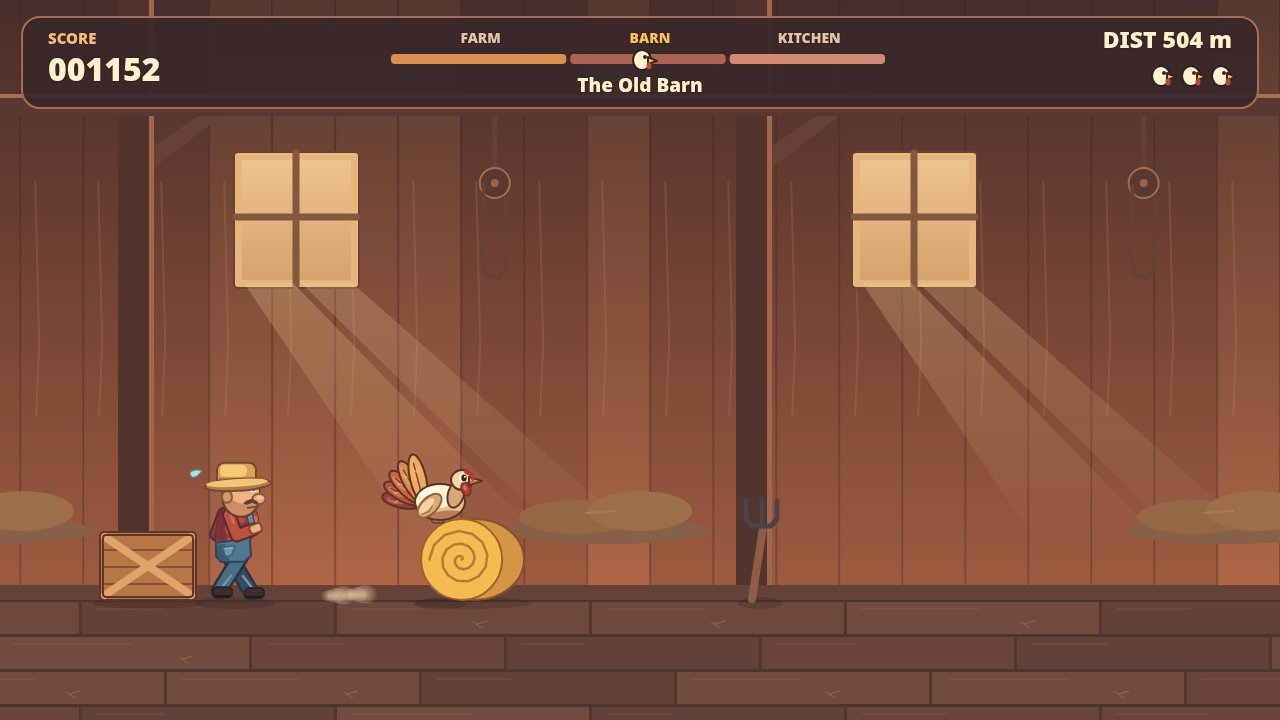
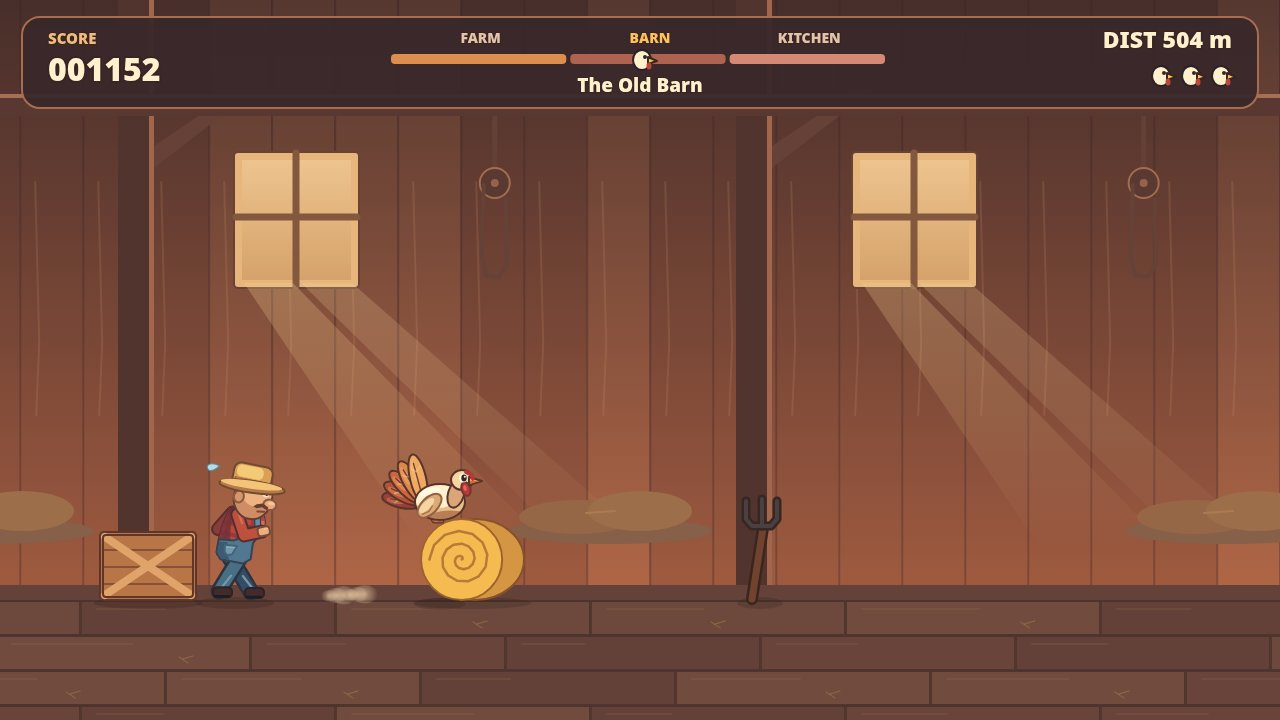
Round-2 ChatGPT-review fixes: cover restaged as the desperate moment (turkey mid-jump over the oven, farmer lunging 126px behind, turkey alarmed face during lunges), sprintier farmer run pose (more lean, wider arm swing), pitchfork darkened with thick outline

Changed region(s): [[0.1562, 0.6417, 0.2188, 0.7639], [0.5625, 0.7639, 0.5938, 0.8556], [0.5938, 0.7028, 0.625, 0.7639]]

diff --git a/game/src/render.js b/game/src/render.js
@@ -338,7 +338,7 @@ export class Renderer {
     }
     this.drawEffects(state.cameraX);
     if (dashing) this.speedLines(state.turkey, state.cameraX);
-    this.drawTurkey(state.turkey, state.turkey.x - state.cameraX);
+    this.drawTurkey(state.turkey, state.turkey.x - state.cameraX, state.farmer.state === 'lunge');
     this.drawFarmer(state.farmer, state.farmer.x - state.cameraX);
     if (!state.frozen || state.currentStage.id === 'farm') this.leaves(state.cameraX);
     this.endImpact(impact);
@@ -501,10 +501,16 @@ export class Renderer {
         break;
       case 'pitchfork': {
         const center = x + w / 2;
-        this.line([[center - 8, g - 1], [center + 3, y + 31]], '#905c45', 8);
-        this.line([[center - 14, y + 4], [center - 14, y + 22], [center - 8, y + 29],
-          [center + 11, y + 29], [center + 17, y + 22], [center + 17, y + 4]], '#4c4249', 5);
-        this.line([[center + 2, y + 2], [center + 2, y + 29]], '#4c4249', 5);
+        const handle = [[center - 8, g - 1], [center + 3, y + 31]];
+        const outerTines = [[center - 14, y + 4], [center - 14, y + 22], [center - 8, y + 29],
+          [center + 11, y + 29], [center + 17, y + 22], [center + 17, y + 4]];
+        const middleTine = [[center + 2, y + 2], [center + 2, y + 29]];
+        this.line(handle, '#3c251f', 12);
+        this.line(handle, '#70432f', 7);
+        this.line(outerTines, '#382622', 9);
+        this.line(middleTine, '#382622', 9);
+        this.line(outerTines, '#4b4041', 4);
+        this.line(middleTine, '#4b4041', 4);
         break;
       }
       case 'oven':
@@ -581,10 +587,25 @@ export class Renderer {
     this.line(spiral, '#b77a38', 2.5);
   }
 
-  drawTurkey(turkey, x) {
+  drawTurkey(turkey, x, alarmed) {
     const lift = turkey.y ?? 0;
     this.shadow(x, this.ground + 4, Math.max(9, 33 - lift * 0.11));
-    this.turkeyPose(x, this.ground - lift, { ...turkey, airborne: lift > 0 });
+    this.turkeyPose(x, this.ground - lift, { ...turkey, airborne: lift > 0, alarmed });
+  }
+
+  sweatDrop(x, y, scale = 1) {
+    const c = this.ctx;
+    c.save();
+    c.translate(x, y);
+    c.scale(scale, scale);
+    c.beginPath();
+    c.moveTo(0, 0);
+    c.quadraticCurveTo(-5, -2, -10, 0);
+    c.quadraticCurveTo(-14, 3, -10, 6);
+    c.quadraticCurveTo(-6, 8, 0, 0);
+    c.closePath();
+    this.paint('#b2dce7', '#608494', 1.1);
+    c.restore();
   }
 
   turkeyPose(x, y, turkey = {}, scale = 1, angle = 0) {
@@ -657,7 +678,12 @@ export class Renderer {
       '#c97139');
     this.line([[headX + 4, headY - 8], [headX + 10, headY - 5], [headX + 11, headY - 1]],
       '#b6383a', 3.8);
-    if (turkey.hidden && this.time % 2.8 > 2.60) {
+    if (turkey.alarmed) {
+      this.oval(headX + 1, headY - 2.5, 5.5, 6.2, '#fff8df', 0, ink);
+      this.oval(headX + 2.5, headY - 2.5, 2.5, 3.4, '#332229');
+      this.oval(headX + 3.1, headY - 3.9, 1, 1, '#fff8df');
+      this.sweatDrop(headX - 8, headY - 9, 0.65);
+    } else if (turkey.hidden && this.time % 2.8 > 2.60) {
       this.line([[headX - 1, headY - 2], [headX + 4, headY - 2]], ink);
     } else {
       this.oval(headX + 1, headY - 2, 4, 4.5, '#fff8df');
@@ -677,6 +703,7 @@ export class Renderer {
     const c = this.ctx;
     const phase = (farmer.runPhase ?? 0) * TAU;
     const running = !holding && farmer.state !== undefined;
+    const sprinting = !holding && farmer.state === 'chase';
     const searching = farmer.state === 'search';
     const lunging = farmer.state === 'lunge';
     const stride = running ? Math.sin(phase) * 25 : 0;
@@ -702,12 +729,17 @@ export class Renderer {
       c.translate(0, 44);
     } else if (running) {
       c.translate(0, -Math.abs(Math.cos(phase)) * 2);
+      if (sprinting) {
+        c.translate(0, -44);
+        c.rotate(0.2);
+        c.translate(0, 44);
+      }
     }
 
     const arm = (side) => {
       const near = side === 1;
       const shoulder = near ? [-6, -85] : [-11, -86];
-      const swing = -side * (9 + stride) / 34 * 0.78;
+      const swing = -side * (9 + stride) / 34 * (sprinting ? 1.11 : 0.78);
       const forearmAngle = -0.22 - swing * 0.36;
       let elbow = [shoulder[0] + Math.sin(swing) * 22, shoulder[1] + Math.cos(swing) * 22];
       let wrist = [elbow[0] + Math.cos(forearmAngle) * 18, elbow[1] + Math.sin(forearmAngle) * 18];
@@ -788,15 +820,7 @@ export class Renderer {
     this.rect(-15, -122, 14, 2, '#be784c');
     this.oval(3, -115, 33, 6, '#b77948', -0.06, '#704b34');
     this.oval(2, -117, 31, 4, '#f3c477', -0.06);
-    if (!holding && (farmer.state === 'chase' || lunging)) {
-      c.beginPath();
-      c.moveTo(-33, -129);
-      c.quadraticCurveTo(-38, -131, -43, -129);
-      c.quadraticCurveTo(-47, -126, -43, -123);
-      c.quadraticCurveTo(-39, -121, -33, -129);
-      c.closePath();
-      this.paint('#b2dce7', '#608494', 1.1);
-    }
+    if (!holding && (sprinting || lunging)) this.sweatDrop(-33, -129);
     c.restore();
   }
 

diff --git a/game/src/shots.js b/game/src/shots.js
@@ -24,11 +24,19 @@ export function stageShot(name, game) {
       game.turkey.vy = 180;
       game.shotDustX = game.turkey.x - 85;
       break;
-    case 'kitchen':
-      stageRun(game, 2, 3570, 1961, [
-        ['oven', 330], ['knife', 640],
-      ]);
+    case 'kitchen': {
+      const ovenOffset = 330;
+      stageRun(game, 2, 3570, 1961, [['oven', ovenOffset], ['knife', 640]], 334);
+      const oven = game.world.items.find((item) => item.staged && item.kind === 'oven');
+      game.turkey.x = oven.x + oven.w / 2;
+      game.turkey.y = oven.h + 28;
+      game.turkey.vy = 280;
+      game.farmer.x = game.turkey.x - 126;
+      game.farmer.state = 'lunge';
+      game.farmer.lungeRemaining = 0.22;
+      game.distance = Math.floor(game.turkey.x / CONFIG.game.PIXELS_PER_METRE);
       break;
+    }
     case 'caught':
       Object.assign(game, { state: 'caught', score: 1733, distance: 817 });
       break;
@@ -44,14 +52,14 @@ export function stageShot(name, game) {
   }
 }
 
-function stageRun(game, stageIndex, offset, score, props) {
+function stageRun(game, stageIndex, offset, score, props, cameraAnchor = SHOT_CAMERA_ANCHOR) {
   const stage = game.world.stages[stageIndex];
   const x = stage.startX + offset;
   game.turkey.reset(x);
   game.turkey.runPhase = 0.21;
   game.farmer.reset(x - SHOT_FARMER_GAP);
   game.farmer.runPhase = 0.76;
-  game.cameraX = x - SHOT_CAMERA_ANCHOR;
+  game.cameraX = x - cameraAnchor;
 
   // Replace foreground clutter only in this frozen shot.
   const viewEnd = game.cameraX + CONFIG.view.W;
